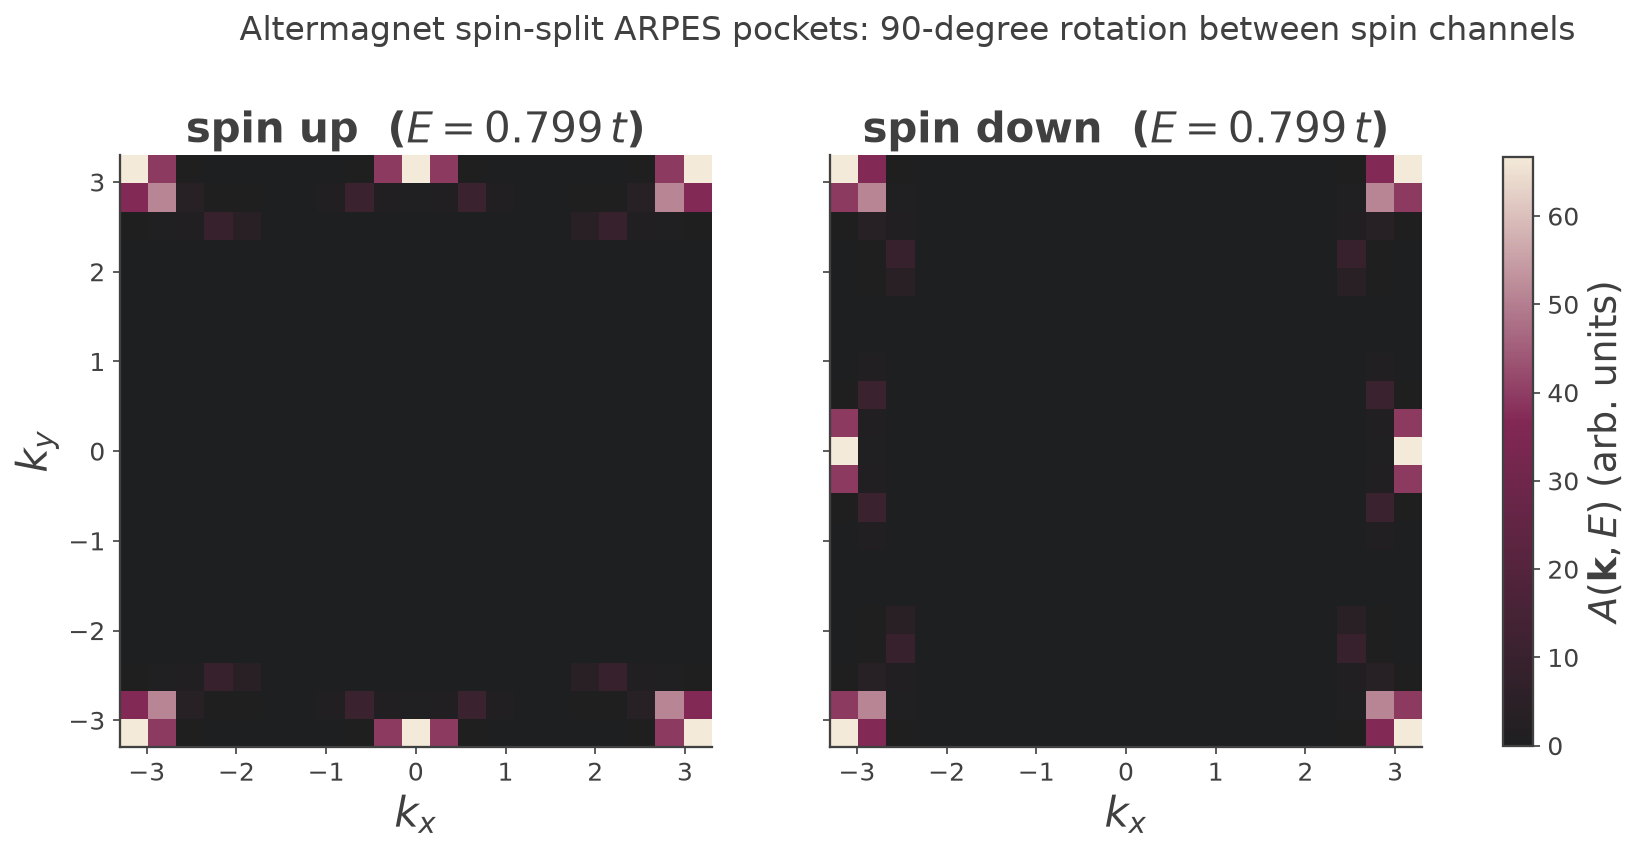
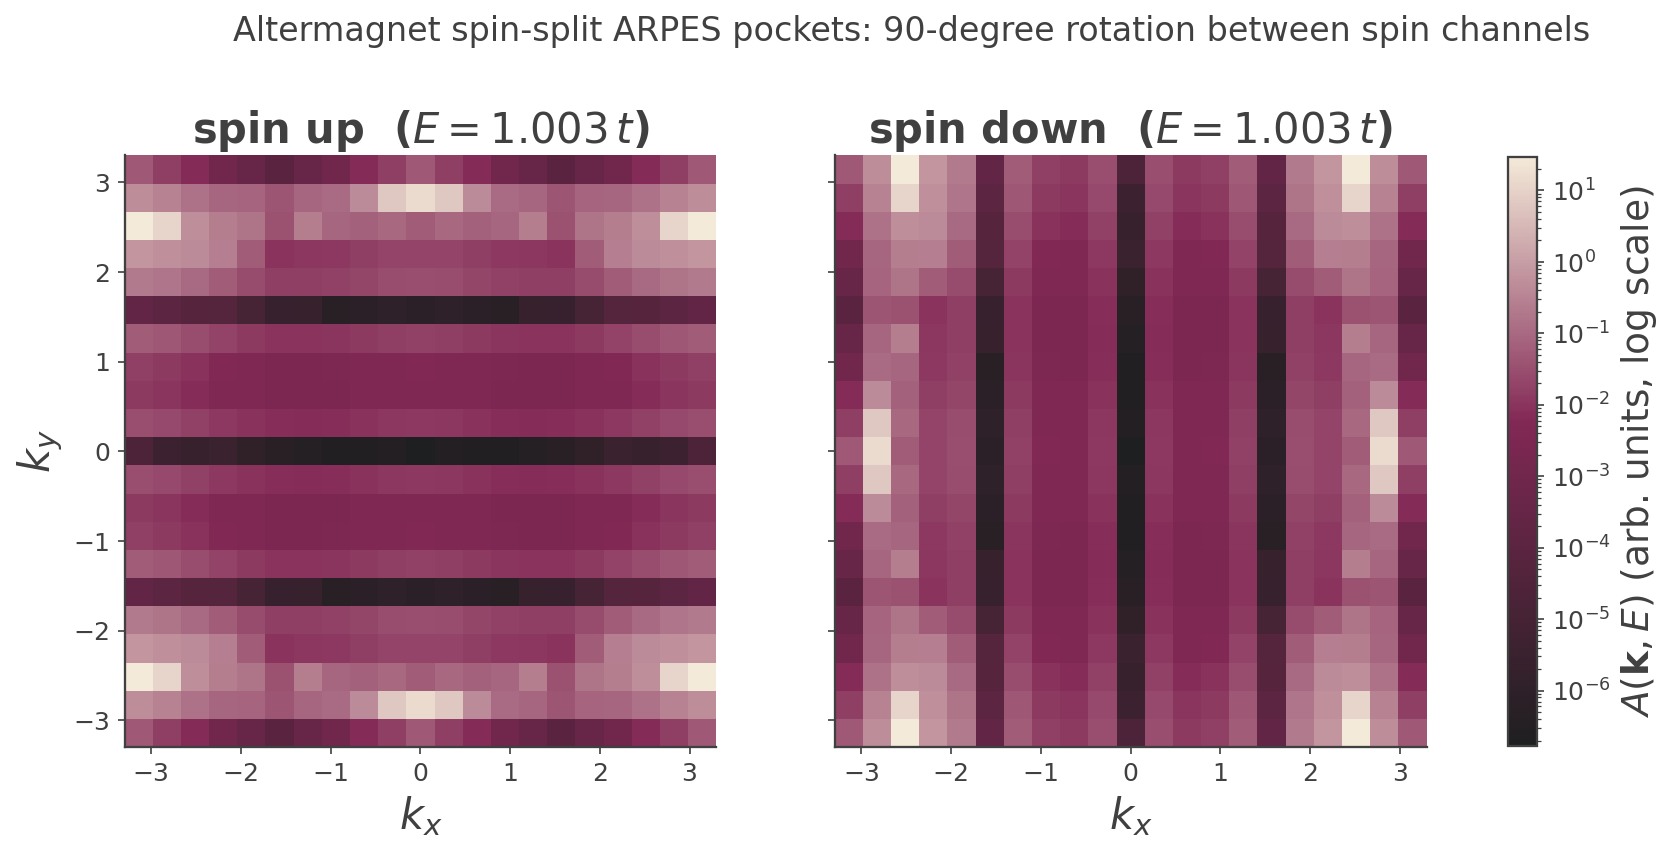
Clarify altermagnet ARPES doc + switch plot to log scale
Make explicit that spin-up/spin-down are two fully independent KITEx
runs with no rotation/transform applied between them -- the 90-degree
relationship is a verified physics result, not a plotting trick. Also
switch the pocket-comparison plot to a log color scale (same fix as
the piflux LDOS map): the previous linear scale was dominated by a few
bright pixels and hid the actual band structure.

diff --git a/examples/process_altermagnet_arpes.py b/examples/process_altermagnet_arpes.py
@@ -18,6 +18,7 @@
 import sys
 import numpy as np
 import matplotlib.pyplot as plt
+from matplotlib.colors import LogNorm
 
 import kite_style
 
@@ -81,20 +82,31 @@ def plot_pocket_comparison(up_file, down_file, n_kgrid, target_energy,
 
     fig, axs = plt.subplots(1, 2, figsize=(14, 6), sharex=True, sharey=True)
     cmap = kite_style.kite_spectral_cmap()
-    vmax = max(grid_up.max(), grid_dn.max())
+
+    # Intensity is dominated by a handful of very bright pixels (van Hove-like
+    # points near the BZ boundary), which on a linear scale swamps everything
+    # else to near-black -- a log scale (as used for the piflux LDOS map)
+    # recovers the pocket shape across the full dynamic range. Floor at the
+    # smallest positive value present in either map (not literal 0, which a
+    # log scale cannot display).
+    both = np.concatenate([grid_up.ravel(), grid_dn.ravel()])
+    vmin = both[both > 0].min()
+    vmax = both.max()
+    norm = LogNorm(vmin=vmin, vmax=vmax)
 
     for ax, grid, title, E in (
         (axs[0], grid_up, "spin up", E_up),
         (axs[1], grid_dn, "spin down", E_dn),
     ):
-        mesh = ax.pcolormesh(kxs, kys, grid.T, cmap=cmap, vmin=0, vmax=vmax,
+        plotted = np.clip(grid.T, vmin, None)
+        mesh = ax.pcolormesh(kxs, kys, plotted, cmap=cmap, norm=norm,
                               shading="auto", rasterized=True)
         ax.set_xlabel(r"$k_x$", fontsize=20)
         ax.set_title(f"{title}  ($E={E:.3f}\\,t$)", fontsize=20)
         ax.set_aspect("equal")
     axs[0].set_ylabel(r"$k_y$", fontsize=20)
     cbar = fig.colorbar(mesh, ax=axs, shrink=0.85)
-    cbar.set_label(r"$A(\mathbf{k},E)$ (arb. units)", fontsize=18)
+    cbar.set_label(r"$A(\mathbf{k},E)$ (arb. units, log scale)", fontsize=18)
 
     fig.suptitle("Altermagnet spin-split ARPES pockets: "
                   "90-degree rotation between spin channels", fontsize=16)

diff --git a/docs/documentation/examples/altermagnet_arpes.md b/docs/documentation/examples/altermagnet_arpes.md
@@ -109,19 +109,36 @@ Because the ARPES initial state is
 $|\mathbf k\rangle=\tfrac{1}{\sqrt N}\sum_{\mathbf r,\alpha}w_\alpha e^{i\mathbf k\cdot(\mathbf r+\mathbf d_\alpha)}|\mathbf r,\alpha\rangle$
 (see the [Spectral Function write-up][spectral-function-example]), setting the down-sublattice weights to zero
 makes $A(\mathbf k,E)$ measure only the up-spin spectral weight (and vice versa). KITE allows only one
-`#!python arpes()` request per output file, so up and down are two separate KITEx runs. A **full 2D
-$\mathbf k$-grid** spanning the Brillouin zone $[-\pi,\pi]^2$ is used (rather than a 1D high-symmetry cut)
-precisely because the phenomenon is a rotation of the *whole* pocket shape, far more legible as a 2D map than a
-line cut.
+`#!python arpes()` request per output file, so **spin-up and spin-down are two entirely separate KITEx runs**
+on two separate output files (`altermagnet_arpes_up-output.h5` / `..._down-output.h5`), each going through the
+full Chebyshev-moment calculation and its own KITE-tools post-processing independently. **No rotation, transpose,
+or any other transformation is ever applied to one spin's data to produce the other's** — the down-spin panel
+below is the genuine, independently-computed output of the down-spin KITEx run, nothing more. The apparent
+$90^\circ$ relationship between the two panels is a *result*, not an input: it is the numerical footprint of the
+$\varepsilon_\uparrow(k_x,k_y)=\varepsilon_\downarrow(k_y,k_x)$ identity derived above, and the whole point of the
+example is that this relationship falls out on its own. A **full 2D $\mathbf k$-grid** spanning the Brillouin
+zone $[-\pi,\pi]^2$ is used (rather than a 1D high-symmetry cut) precisely because the phenomenon is a rotation
+of the *whole* band structure in $\mathbf k$-space, far more legible as a 2D map than a line cut.
 
 <figure>
     <img src="../../../assets/images/custom_vertex_operators/altermagnet_arpes.png" style="width: 34em;" />
-    <figcaption>Spin-up (left) and spin-down (right) ARPES intensity maps: an exact 90-degree rotation.</figcaption>
+    <figcaption>Spin-up (left) and spin-down (right) ARPES intensity at fixed E, log color scale: two
+    completely independent KITEx runs whose patterns are exact 90-degree rotations of one another.</figcaption>
 </figure>
 
-**Verified result:** the spin-up and spin-down intensity maps satisfy `#!python grid_up == grid_down.T` to
-$\sim10^{-12}$ — an exact $90^\circ$ rotation, the direct visual signature of the identity
-$\varepsilon_\uparrow(k_x,k_y)=\varepsilon_\downarrow(k_y,k_x)$ derived above.
+At this coarse ($21\times21$) k-grid the intensity is dominated by a handful of very bright pixels near the
+Brillouin-zone boundary, which on a **linear** color scale swamps everything else down to near-black — exactly
+the pattern already seen in the [`#!python ldos_map()` example][markov-maps-example], and fixed the same way
+here: the figure above uses a **log** color scale. On it, the underlying structure is clearly visible as bands
+of low intensity (where no band lies near the probed energy) running **horizontally** (roughly $k_y\approx0,
+\pm\pi/2$) for spin-up and **vertically** (roughly $k_x\approx0,\pm\pi/2$) for spin-down — a direct picture of
+the same feature rotated by $90^\circ$ between the two spin channels.
+
+**Verified result:** the spin-up and spin-down intensity maps satisfy `#!python grid_up == grid_down.T` **exactly**
+(to floating-point precision, not just approximately) — expected here because, unlike the stochastic map
+estimators elsewhere in these docs, a single-$\mathbf k$-point ARPES calculation is deterministic, so two
+Hamiltonian blocks that are exactly equal under $\mathbf k\to(\mathbf k_y,\mathbf k_x)$ swap (proven algebraically
+above) produce bit-for-bit identical KPM output under that swap.
 
 ### The nodal-line subtlety
 
@@ -140,4 +157,5 @@ diagonals.
 [^1]: L. Šmejkal, J. Sinova, and T. Jungwirth, [Phys. Rev. X **12**, 040501 (2022)](https://doi.org/10.1103/PhysRevX.12.040501).
 
 [spectral-function-example]: spectral_function.md
+[markov-maps-example]: markov_local_maps.md
 [altermagnet_example]: https://github.com/quantum-kite/kite-v2/tree/master/examples/altermagnet_arpes.py